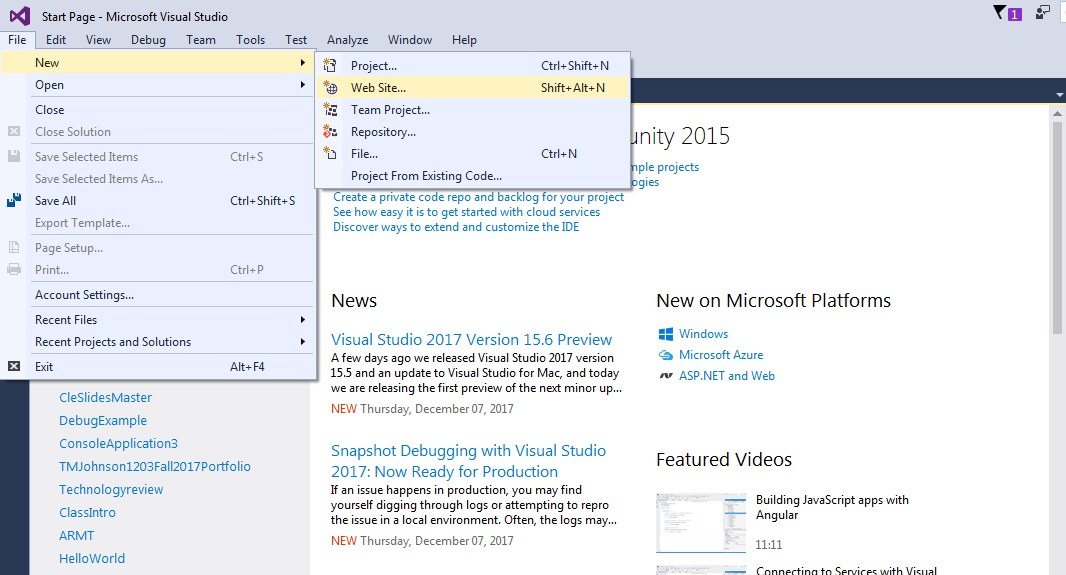
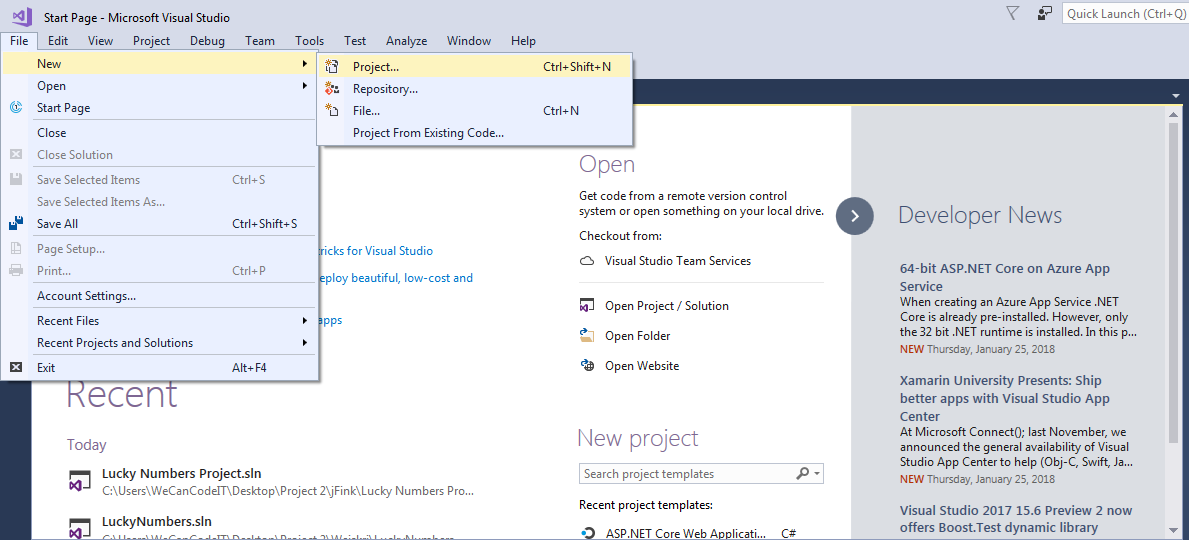
update HTML Slide Deck

diff --git a/SlideDeck/docs/frontend/html/index.html b/SlideDeck/docs/frontend/html/index.html
@@ -77,14 +77,14 @@
   <li>
     <p>Lets put what we learned to the test. I need a volunteer!!</p>
 
-    <div float="right"><img src="./resources/boot1.png" /></div>
+    <div float="right" class="img"><img src="./resources/boot1.png" /></div>
 
     <ul>
       <li>
         <p>Open Visual Studio</p>
       </li>
       <li>
-        <p>Select File &gt; New &gt; WebSite</p>
+        <p>Select File &gt; New &gt; Project</p>
       </li>
     </ul>
   </li>
@@ -96,11 +96,17 @@
         <section>
           <!-- _S9SLIDE_  -->
 
-<div float="right"><img src="./resources/boot2.png" /></div>
+<div float="right" class="img"><img src="./resources/boot2.png" /></div>
 
 <ul>
   <li>
-    <p>Ensure <mark>Visual C#</mark> is selected under templates.</p>
+    <p>Select <mark>Installed</mark>.</p>
+  </li>
+  <li>
+    <p>Select <mark>Web</mark>.</p>
+  </li>
+  <li>
+    <p>Select <mark>Web Site</mark></p>
   </li>
   <li>
     <p>Ensure <mark>ASP.NET Empty Web Site</mark> is highlighted.</p>
@@ -112,10 +118,10 @@
     <p>Use your right arrow key to navigate to the end of the location path.</p>
   </li>
   <li>
-    <p>Change <mark>WebSite1</mark> to <mark>Bootstrap</mark>.</p>
+    <p>Change <mark>WebSite1</mark> to <mark>MySuperDopeWebSite</mark>.</p>
   </li>
   <li>
-    <p>Your location address might have a value differant than <mark>WebSite1</mark>, not to worry just replace whatever value is there to <mark>Bootstrap</mark></p>
+    <p>Your location address might have a value differant than <mark>WebSite1</mark>, not to worry just replace whatever value is there to <mark>MySuperDopeWebSite</mark></p>
   </li>
   <li>
     <p>Finally Select <mark>Ok</mark>.</p>
@@ -128,22 +134,17 @@
         
         <section>
           <!-- _S9SLIDE_ -->
-<h2 id="we-should-all-be-here">We should all be here!!</h2>
-
-<div float="right"><img src="./resources/boot3.png" /></div>
-
-
-
-        </section>
-        
-        <section>
-          <!-- _S9SLIDE_ -->
 <h2 id="lets-add-an-html-page">Lets add an HTML page</h2>
 
-<div float="right"><img src="./resources/boot4.png" /></div>
+<div float="right" class="img"><img src="./resources/boot3.png" /></div>
 
 <ul>
-  <li>Select Website &gt; Add New Item</li>
+  <li>
+    <p>Place your curser in the Solution Explorer and right click on <mark>SuperDopeWebSite</mark></p>
+  </li>
+  <li>
+    <p>Select <mark>Add</mark> then <mark>Add New Item</mark>.</p>
+  </li>
 </ul>
 
 
@@ -152,7 +153,7 @@
         <section>
           <!-- _S9SLIDE_  -->
 
-<div float="right"><img src="./resources/boot5.png" /></div>
+<div float="right" class="img"><img src="./resources/boot4.png" /></div>
 
 <ul>
   <li>
@@ -175,9 +176,19 @@
         
         <section>
           <!-- _S9SLIDE_ -->
+<h2 id="we-should-all-be-here">We should all be here!!</h2>
+
+<div float="right" class="img"><img src="./resources/boot5.png" /></div>
+
+
+
+        </section>
+        
+        <section>
+          <!-- _S9SLIDE_ -->
 <h2 id="we-should-all-be-here-1">We should all be here!!</h2>
 
-<div float="right"><img src="./resources/boot6.png" /></div>
+<div float="right" class="img"><img src="./resources/boot6.png" /></div>
 
 
 
@@ -353,11 +364,18 @@
     <p>HTML tags and the content they house are called elements.</p>
   </li>
   <li>
-    <p>V</p>
+    <p>Lets add a couple of <mark>elements</mark> to our page.</p>
+  </li>
+  <li>
+    <p><code>&lt;h1&gt;W3Schools&lt;/h1&gt;</code></p>
+  </li>
+  <li>
+    <p><code>&lt;p&gt;W3Schools is an excellent resources for questions about anything html&lt;/p&gt;</code></p>
+  </li>
+  <li>
+    <p><code>&lt;a href="https://www.w3schools.com"&gt;Visit W3Schools.com!&lt;/a&gt;</code></p>
   </li>
 </ul>
-
-<p><code>&lt;p&gt;This is an element&lt;/p&gt;</code></p>
 
 <p>These elements can be thought of as boxes. We will often house elements inside of each other. This can be for organization or just as a method of containing elements.</p>
 
@@ -629,6 +647,13 @@
 <h2 id="now-you-do-it">Now you do it</h2>
 
 <p>Navigate to <a href="https://github.com/donhamiltoniii/semantic-markup">the exercise</a> on Github and follow the instructions in the repository to complete the project.</p>
+<style type="text/css">
+.img:hover  {
+        transform: scale(1.5);
+        box-shadow: 0 0 10px rgba(0, 0, 0, 0.5);
+    }
+</style>
+
 
         </section>
         

diff --git a/SlideDeck/src/frontend/html/index.md b/SlideDeck/src/frontend/html/index.md
@@ -12,17 +12,21 @@ HTML (Hyper Text Markup Language) is the first of three languages we use to crea
 
 - Lets put what we learned to the test. I need a volunteer!!
 
-    <div float="right"><img src="./resources/boot1.png" /></div>
+    <div float="right" class="img"><img src="./resources/boot1.png" /></div>
 
 	- Open Visual Studio
 
-	- Select File > New > WebSite
+	- Select File > New > Project
 
 !SLIDE
 
-   <div float="right"><img src="./resources/boot2.png" /></div>
+   <div float="right" class="img"><img src="./resources/boot2.png" /></div>
 
-- Ensure <mark>Visual C#</mark> is selected under templates.
+- Select <mark>Installed</mark>.
+
+- Select <mark>Web</mark>.
+
+- Select <mark>Web Site</mark>
 
 - Ensure <mark>ASP.NET Empty Web Site</mark> is highlighted.
 
@@ -30,25 +34,23 @@ HTML (Hyper Text Markup Language) is the first of three languages we use to crea
 
 - Use your right arrow key to navigate to the end of the location path.
 
-- Change <mark>WebSite1</mark> to <mark>Bootstrap</mark>. 
+- Change <mark>WebSite1</mark> to <mark>MySuperDopeWebSite</mark>. 
 
-- Your location address might have a value differant than <mark>WebSite1</mark>, not to worry just replace whatever value is there to <mark>Bootstrap</mark>
+- Your location address might have a value differant than <mark>WebSite1</mark>, not to worry just replace whatever value is there to <mark>MySuperDopeWebSite</mark>
 
 - Finally Select <mark>Ok</mark>.
 
-## We should all be here!!
-
-   <div float="right"><img src="./resources/boot3.png" /></div>
-
 ## Lets add an HTML page
 
-   <div float="right"><img src="./resources/boot4.png" /></div>
+   <div float="right" class="img"><img src="./resources/boot3.png" /></div>
 
-- Select Website > Add New Item
+   - Place your curser in the Solution Explorer and right click on <mark>SuperDopeWebSite</mark>
+
+   - Select <mark>Add</mark> then <mark>Add New Item</mark>.
 
 !SLIDE
 
-   <div float="right"><img src="./resources/boot5.png" /></div>
+   <div float="right" class="img"><img src="./resources/boot4.png" /></div>
 
 - Ensure <mark>Visual C#</mark> is selected under templates.
 
@@ -60,7 +62,7 @@ HTML (Hyper Text Markup Language) is the first of three languages we use to crea
 
 ## We should all be here!!
 
-   <div float="right"><img src="./resources/boot6.png" /></div>   
+   <div float="right" class="img"><img src="./resources/boot5.png" /></div>
 
 ## Its all about the Tags
 
@@ -321,3 +323,9 @@ or:
 ## Now you do it
 
 Navigate to [the exercise](https://github.com/donhamiltoniii/semantic-markup) on Github and follow the instructions in the repository to complete the project.
+<style type="text/css">
+.img:hover  {
+        transform: scale(1.5);
+        box-shadow: 0 0 10px rgba(0, 0, 0, 0.5);
+    }
+</style>
